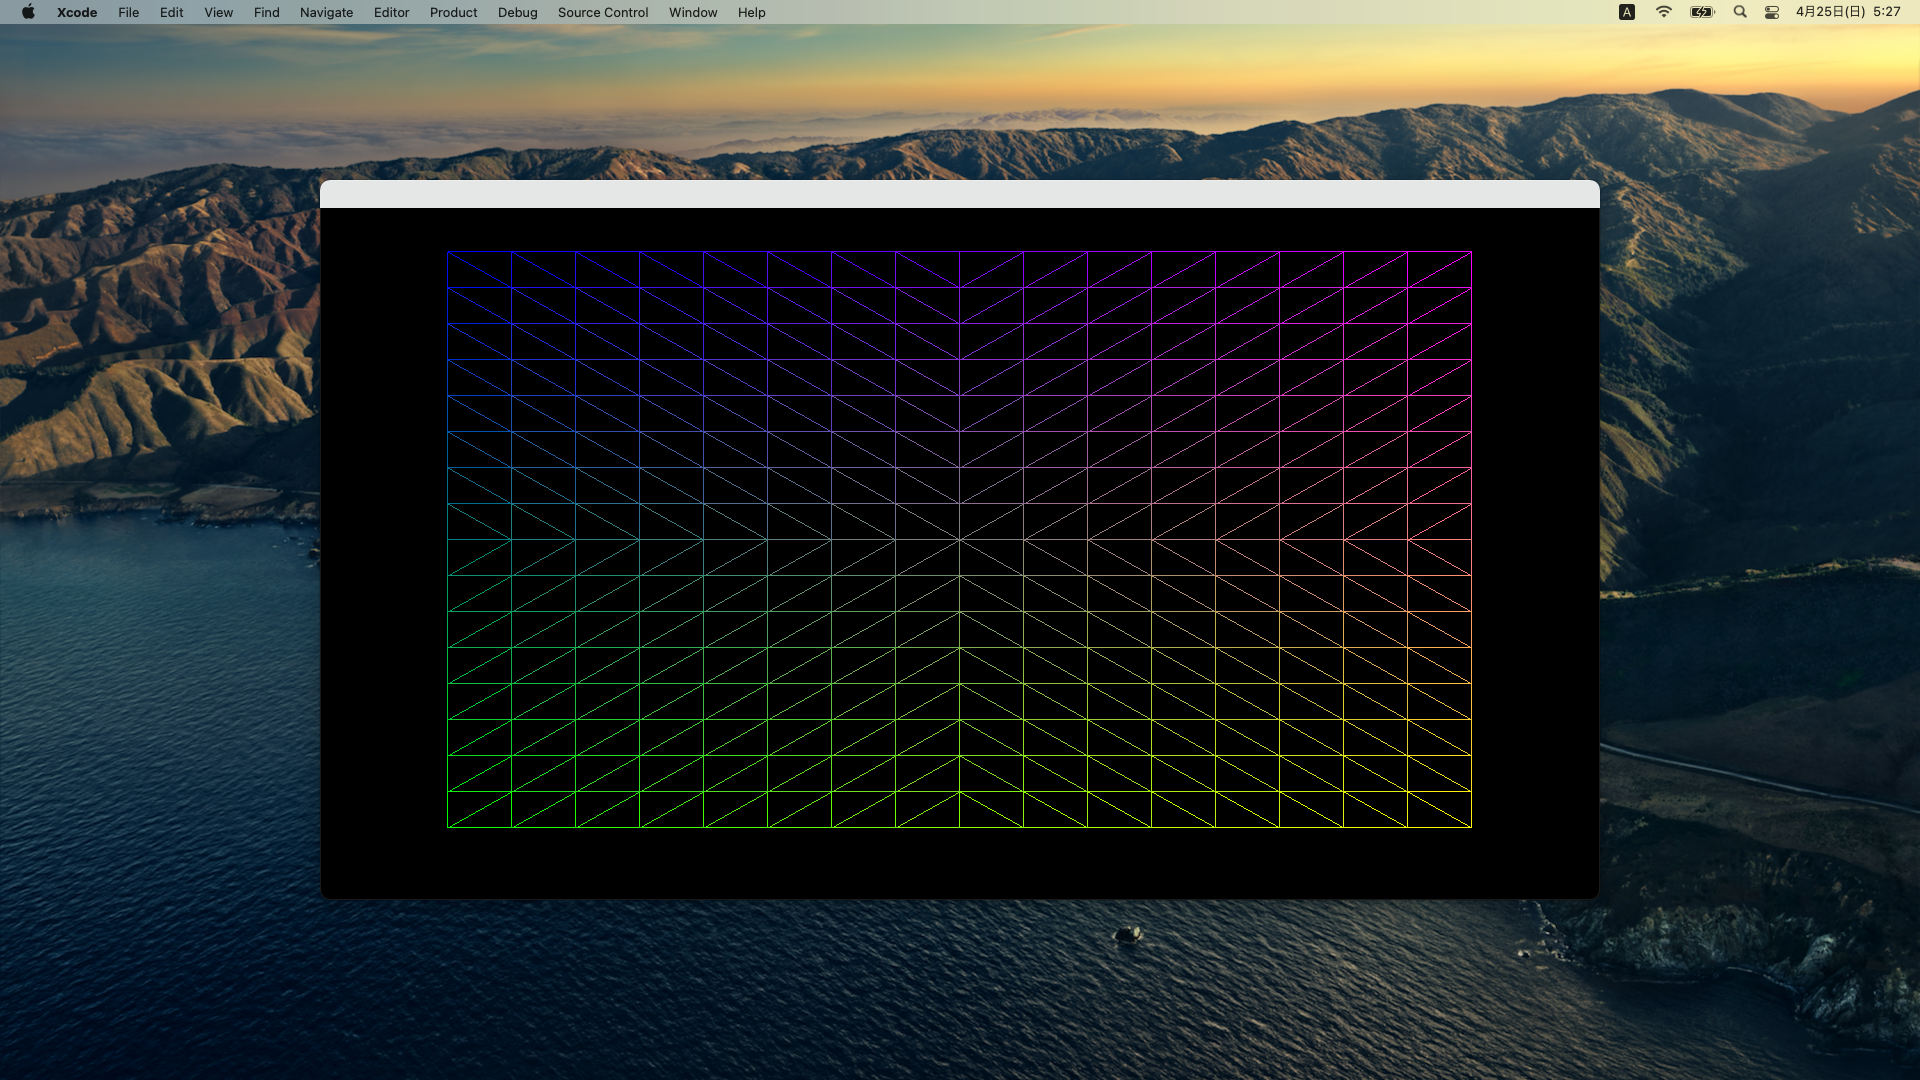
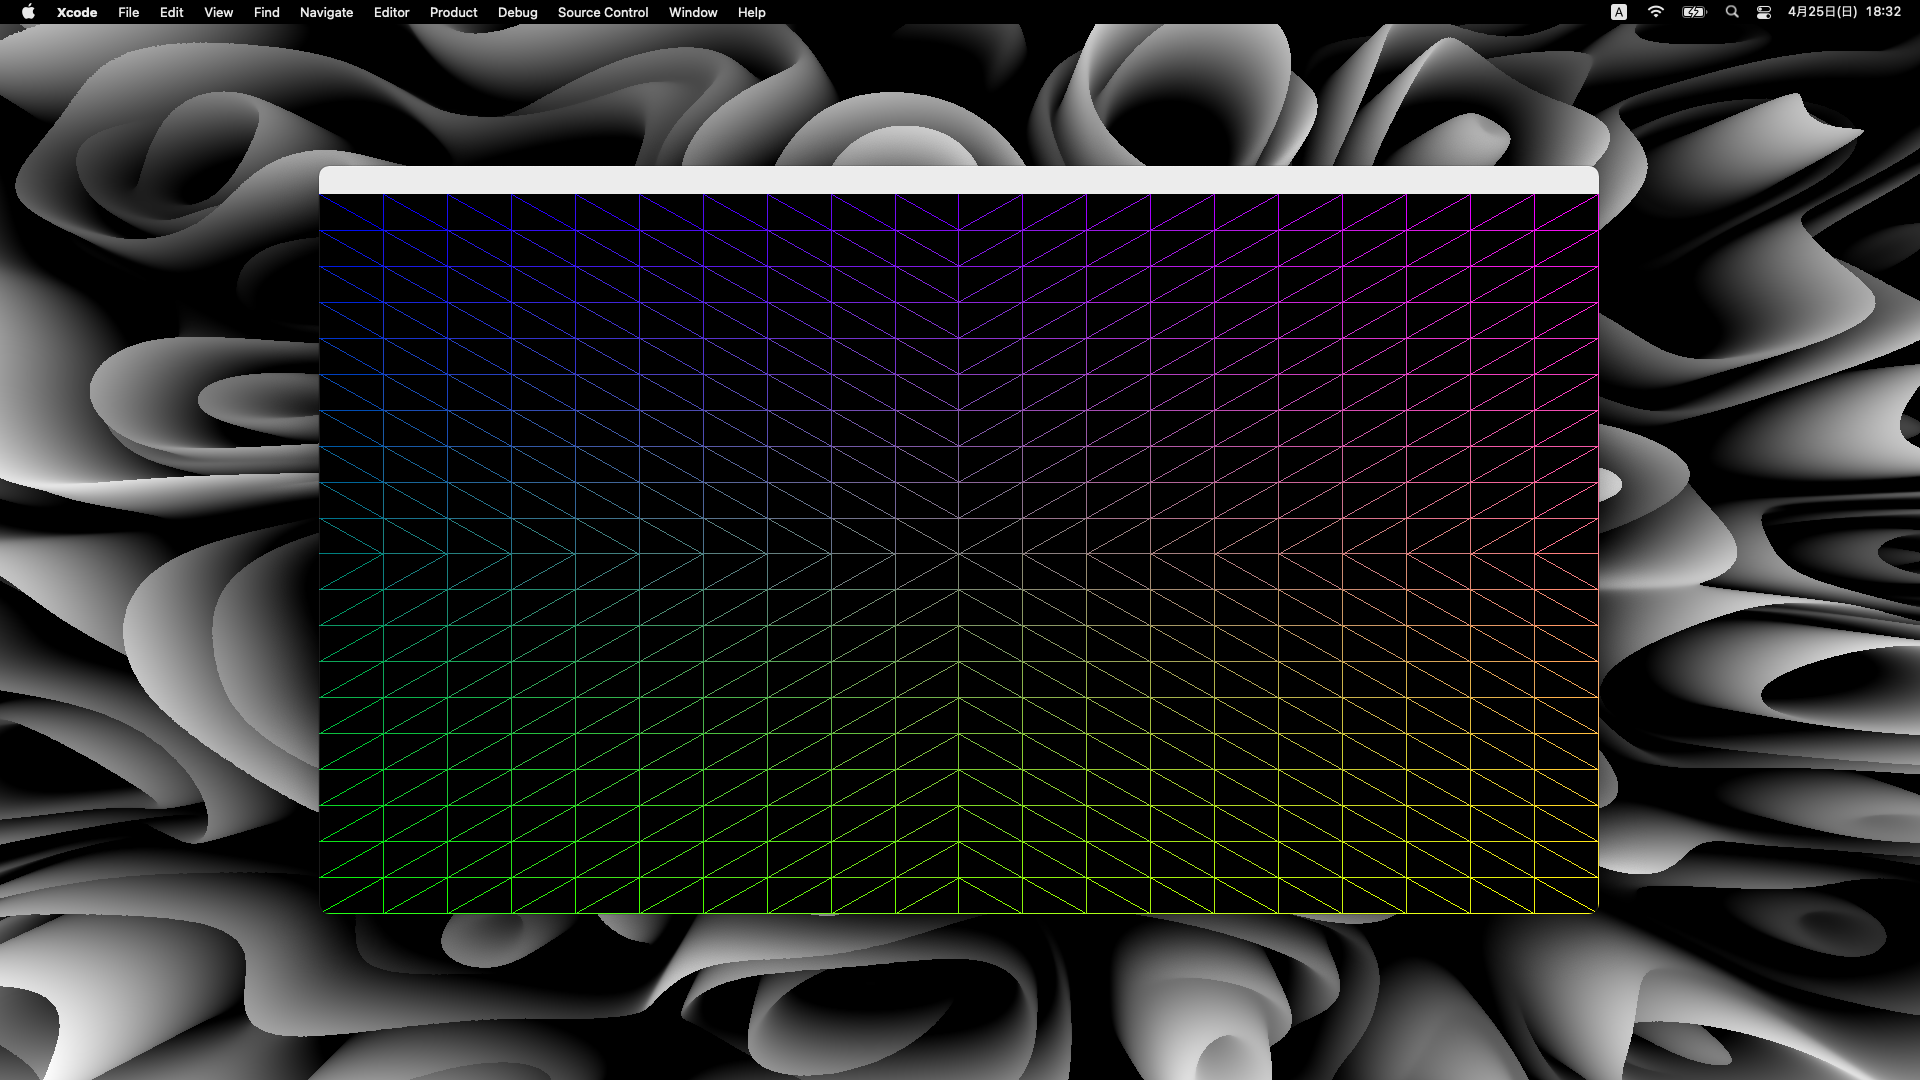
Updated

diff --git a/BasicTessellation/BasicTessellation/main.mm b/BasicTessellation/BasicTessellation/main.mm
@@ -25,10 +25,10 @@ class MetalTessellationLayer {
         id<MTLBuffer> _tessellationFactorsBuffer;
         id<MTLBuffer> _controlPointsBufferQuad;
     
-        BOOL _wireframe = YES;
+        BOOL _wireframe = NO;
         MTLPatchType _patchType = MTLPatchTypeQuad;
-        float _edgeFactor = 16.0;
-        float _insideFactor = 16.0;
+        float _edgeFactor = 20.0;
+        float _insideFactor = 20.0;
         
         bool _isInit = false;
             
@@ -218,10 +218,10 @@ class MetalTessellationLayer {
             controlPointsBufferOptions = MTLResourceStorageModeManaged;
             
             static const float controlPointPositionsQuad[] = {
-                -0.8,  0.8, 0.0, 1.0,   // upper-left
-                 0.8,  0.8, 0.0, 1.0,   // upper-right
-                 0.8, -0.8, 0.0, 1.0,   // lower-right
-                -0.8, -0.8, 0.0, 1.0,   // lower-left
+                -1.0,  1.0, 0.0, 1.0,   // upper-left
+                 1.0,  1.0, 0.0, 1.0,   // upper-right
+                 1.0, -1.0, 0.0, 1.0,   // lower-right
+                -1.0, -1.0, 0.0, 1.0,   // lower-left
             };
             this->_controlPointsBufferQuad = [this->_device newBufferWithBytes:controlPointPositionsQuad length:sizeof(controlPointPositionsQuad) options:controlPointsBufferOptions];
             this->_controlPointsBufferQuad.label = @"Control Points Quad";
@@ -322,7 +322,7 @@ class App {
                     dispatch_once(&oncePredicate,^{
                         dispatch_async(dispatch_get_main_queue(),^{
                             CGRect screen = [[NSScreen mainScreen] frame];
-                            NSRect rect = [this->_win contentRectForFrameRect:this->_win.frame];
+                            NSRect rect = this->_win.frame;
                             CGRect center = CGRectMake(
                                 (screen.size.width-rect.size.width)*.5,
                                 (screen.size.height-(rect.size.height))*.5,
